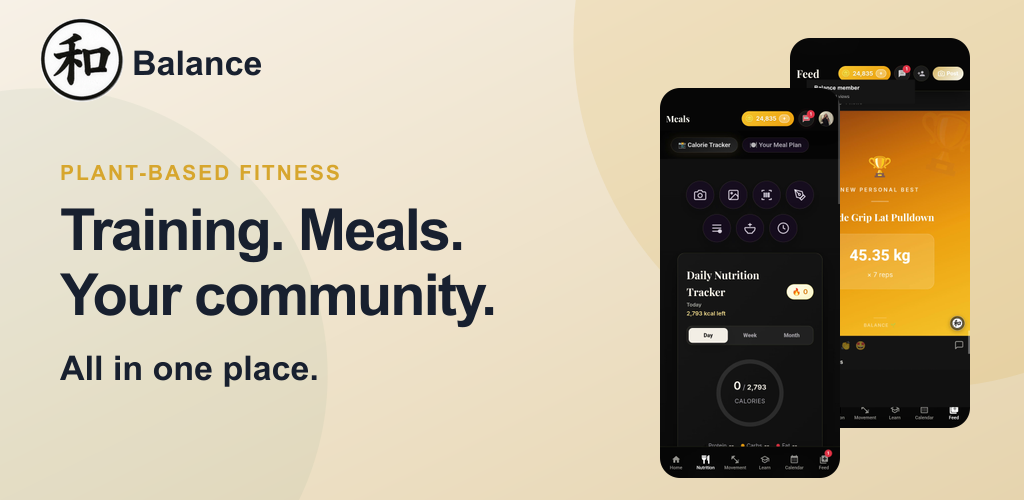
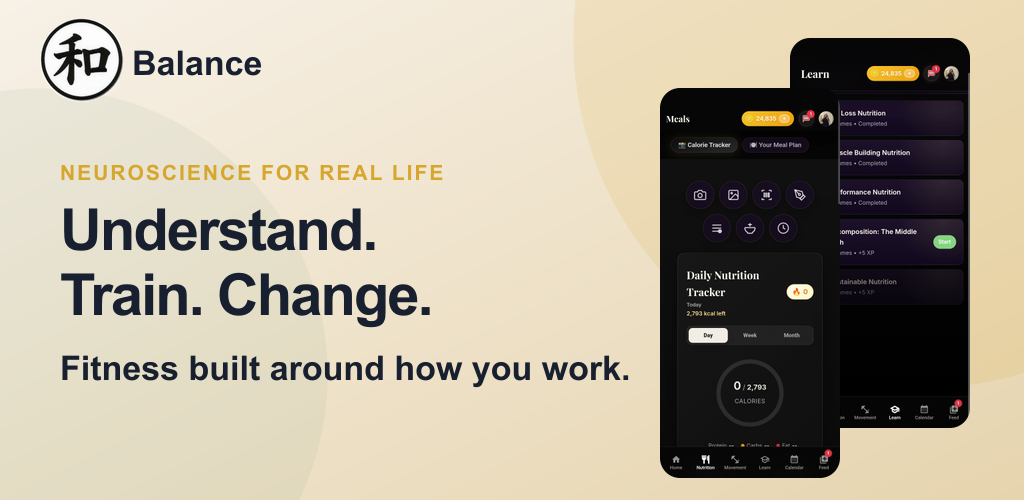
Rebrand store listings around neuroscience fitness

diff --git a/tests/store-listing-brand.test.js b/tests/store-listing-brand.test.js
@@ -7,7 +7,7 @@ const sharp = require('sharp');
 const root = path.join(__dirname, '..');
 const read = (file) => fs.readFileSync(path.join(root, file), 'utf8').trim();
 
-test('store copy leads with plant-based fitness within platform limits', () => {
+test('store copy leads with neuroscience-informed fitness within platform limits', () => {
     const appName = read('store-listing/app-store/en-AU/name.txt');
     const subtitle = read('store-listing/app-store/en-AU/subtitle.txt');
     const promo = read('store-listing/app-store/en-AU/promotional_text.txt');
@@ -18,7 +18,7 @@ test('store copy leads with plant-based fitness within platform limits', () => {
     const playDescription = read('store-listing/google-play/en-AU/full_description.txt');
     const combined = [appName, subtitle, promo, keywords, appleDescription, playTitle, shortDescription, playDescription].join('\n');
 
-    assert.equal(appName, 'Balance: Plant-Based Fitness');
+    assert.equal(appName, 'Balance: Neuroscience Fitness');
     assert.equal(playTitle, appName);
     assert.ok(appName.length <= 30);
     assert.ok(subtitle.length <= 30);
@@ -26,6 +26,8 @@ test('store copy leads with plant-based fitness within platform limits', () => {
     assert.ok(keywords.length <= 100);
     assert.ok(shortDescription.length <= 80);
     assert.ok(playDescription.length <= 4000);
+    assert.match(combined, /neuroscience/i);
+    assert.match(combined, /behaviour/i);
     assert.match(combined, /vegan/i);
     assert.match(combined, /community/i);
     assert.doesNotMatch(combined, /FitGotchi|Tamagotchi|AI coach|artificial intelligence/i);
@@ -40,12 +42,12 @@ test('store visuals use approved phone dimensions and no character assets', asyn
     assert.equal(appleFiles.length, 6);
     assert.equal(playFiles.length, 6);
     const expectedCampaign = [
-        '01-coach.png',
-        '02-community.png',
+        '01-neuroscience-fitness.png',
+        '02-behaviour-change.png',
         '03-training.png',
-        '04-plant-based-meals.png',
+        '04-personalised-nutrition.png',
         '05-progress.png',
-        '06-challenges.png',
+        '06-community.png',
     ];
     assert.deepEqual(appleFiles, expectedCampaign);
     assert.deepEqual(playFiles, expectedCampaign);
@@ -74,8 +76,9 @@ test('store visual generator keeps listing callouts readable and authentic', () 
     assert.doesNotMatch(generator, />COACH-LED CHALLENGE<\/text>/);
     assert.match(generator, /x="\$\{spec\.width \* 0\.05\}"[^>]+width="\$\{spec\.width \* 0\.9\}"/);
     assert.doesNotMatch(generator, /\{ slug: 'founders-pass'/);
-    assert.match(generator, /PLANT-BASED NUTRITION/);
-    assert.match(generator, /Plant-based meal plans/);
+    assert.match(generator, /THE SCIENCE OF CHANGE/);
+    assert.match(generator, /NUTRITION THAT FITS YOU/);
+    assert.match(generator, /Personalised meal plans/);
     assert.match(generator, /const calloutWidth = spec\.width \* 0\.44/);
     assert.match(generator, /const calloutTextX = spec\.width \* 0\.075/);
     assert.match(generator, /const calloutFontSize = Math\.round\(spec\.width \* 0\.026\)/);

diff --git a/store-listing/README.md b/store-listing/README.md
@@ -1,26 +1,29 @@
 # Balance store listing
 
-This package repositions Balance around plant-based fitness, vegan nutrition and community. Gamification remains an optional supporting feature and is not used in the screenshot set.
+This package repositions Balance as **Neuroscience for Real-Life Fitness**: practical neuroscience and behaviour science brought to life through personalised training, nutrition, weekly goals, coaching and community.
 
 ## Store identity
 
-- App name: `Balance: Plant-Based Fitness`
-- App Store subtitle: `Training, meals & community`
-- Google Play short description: `Vegan workouts, meal planning, progress tracking and community in one app.`
+- App name: `Balance: Neuroscience Fitness`
+- Brand line: `Neuroscience for Real-Life Fitness`
+- App Store subtitle: `Fitness, nutrition & habits`
+- Google Play short description: `Neuroscience-informed fitness, nutrition and habits built for real life.`
+
+Vegan and plant-based preferences remain supported inside personalised nutrition, but they are not the identity of the app.
 
 The full proposed listing copy is in `app-store/en-AU` and `google-play/en-AU`. The folders follow the Fastlane `deliver` and `supply` layout so the same approved package can be uploaded without rebuilding it by hand.
 
 ## Screenshot order
 
-1. Coach Shannon and real support
-2. Plant-based community wins
+1. Neuroscience for real-life fitness
+2. Understand why change feels hard
 3. Training with direction
-4. Plant-based meal planning and nutrition
+4. Personalised nutrition
 5. Weekly planning and progress
-6. Coach-led six-week challenges
+6. Real community momentum
 
-The app frames came from the July 18, 2026 real-app screen recording. The coaching and training photography came from Shannon's supplied photo library. The challenge card came from Shannon's July 18 app screenshot, and the meal presentation uses the vegan sweet potato and black bean tacos already supplied with Balance. No faces were generated or altered.
+The app frames came from real Balance screens. Coaching and training photography is Shannon's supplied photography. Community images are approved Balance proof assets with identifying feed details redacted. The nutrition background uses the existing chickpea "tuna" wrap image. No generated people are used.
 
-Frames showing the optional character, eggs, yoghurt and other non-vegan feed meals were deliberately excluded. The feed member name and comments are redacted in the exported community images.
+The feed member name and comments are redacted in the exported community images.
 
 Run `node scripts/generate-store-listing-assets.mjs` from the repository root to rebuild the branded exports.
